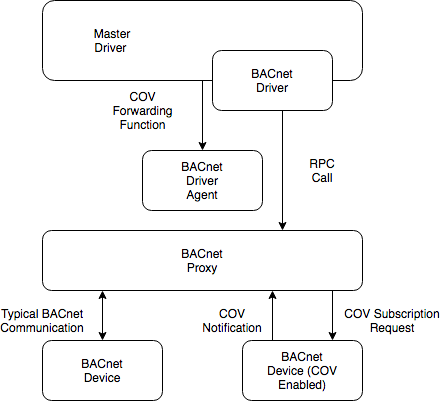
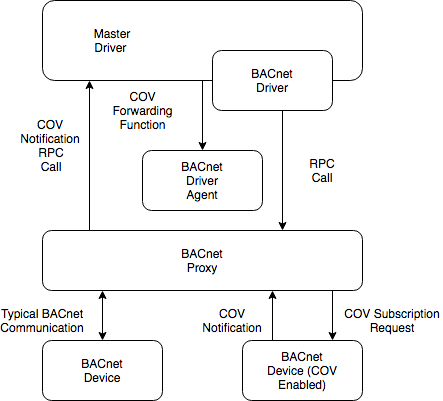
Docs updates for bacnet cov and minor fix to agent development.

Changed region(s): [[0.0293, 0.2993, 0.2054, 0.4489], [0.1761, 0.2095, 0.2054, 0.2394]]

diff --git a/docs/source/core_services/drivers/driver_configuration/bacnet-driver.rst b/docs/source/core_services/drivers/driver_configuration/bacnet-driver.rst
@@ -6,7 +6,7 @@ Communicating with BACnet devices requires that the BACnet Proxy Agent is config
 driver_config
 *************
 
-There are nine arguments for the "driver_config" section of the device configuration file:
+There are eight arguments for the "driver_config" section of the device configuration file:
 
     - **device_address** - Address of the device. If the target device is behind an IP to MS/TP router then Remote Station addressing will probably be needed for the driver to find the device.
     - **device_id** - BACnet ID of the device. Used to establish a route to the device at startup.

diff --git a/docs/source/devguides/agent_development/Agent-Development.rst b/docs/source/devguides/agent_development/Agent-Development.rst
@@ -21,7 +21,7 @@ not exist when the command is run.
 
 `tester` is the name of the agent module created by wizard.
 
-The Wizard will promt for the following information:
+The Wizard will prompt for the following information:
 
 ::
 
